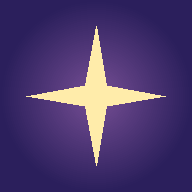
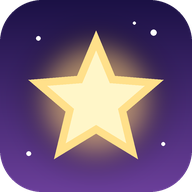
PWA: ícone com a estrela (PNG, maskable e SVG); service worker v2 guarda os rostos do HUD
Claude-Session: https://claude.ai/code/session_01ECdRN2wNrc5mTDmHTxfi4B

diff --git a/public/sw.js b/public/sw.js
@@ -1,14 +1,21 @@
 // Service worker: guarda o jogo para abrir rápido e funcionar no treino sem internet.
-// Estratégia: rede primeiro para a página (pega versões novas), cache primeiro para os arquivos com hash.
-const CACHE = 'edm-v1';
-self.addEventListener('install', (e) => { self.skipWaiting(); e.waitUntil(caches.open(CACHE).then((c) => c.addAll(['./', './manifest.webmanifest', './icone-192.png']))); });
+// Estratégia: rede primeiro para a página (pega versões novas), cache primeiro para os outros arquivos (os do build
+// têm hash; arte e som entram no cache na primeira vez que são usados). A interface (rostos, ícones) já vai na instalação.
+const CACHE = 'edm-v2';
+const ESSENCIAIS = ['./', './manifest.webmanifest', './icone-192.png', './icone.svg', './arte/14_rosto_natan.webp', './arte/15_rosto_bruna.webp'];
+self.addEventListener('install', (e) => { self.skipWaiting(); e.waitUntil(caches.open(CACHE).then((c) => c.addAll(ESSENCIAIS)).catch(() => {})); });
 self.addEventListener('activate', (e) => e.waitUntil(caches.keys().then((ks) => Promise.all(ks.filter((k) => k !== CACHE).map((k) => caches.delete(k)))).then(() => self.clients.claim())));
 self.addEventListener('fetch', (e) => {
   const url = new URL(e.request.url);
   if (e.request.method !== 'GET' || url.origin !== location.origin) return;
+  // pedidos parciais (áudio em pedaços) vão direto à rede: o cache não guarda respostas 206
+  if (e.request.headers.has('range')) return;
   if (e.request.mode === 'navigate') {
     e.respondWith(fetch(e.request).then((r) => { const c = r.clone(); caches.open(CACHE).then((k) => k.put('./', c)); return r; }).catch(() => caches.match('./')));
     return;
   }
-  e.respondWith(caches.match(e.request).then((hit) => hit || fetch(e.request).then((r) => { const c = r.clone(); caches.open(CACHE).then((k) => k.put(e.request, c)); return r; })));
+  e.respondWith(caches.match(e.request).then((hit) => hit || fetch(e.request).then((r) => {
+    if (r.ok && r.status === 200) { const c = r.clone(); caches.open(CACHE).then((k) => k.put(e.request, c)); }
+    return r;
+  })));
 });
